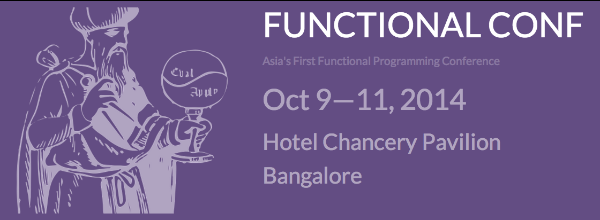
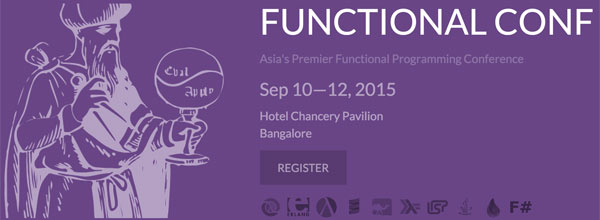
added call for proposal.

diff --git a/speaker.html b/speaker.html
@@ -1,0 +1,184 @@
+<!DOCTYPE html>
+<html lang="en">
+<head>
+  <meta charset="utf-8">
+  <meta http-equiv="X-UA-Compatible" content="IE=edge,chrome=1">
+  <title>Call For Proposals - Functional Conf 2015</title>
+
+  <meta name="description" content="Functional Conf - Asia's Premier Functional Programming Conference" />
+  <meta name="viewport" content="width=device-width, initial-scale=1.0" />
+
+  <meta property="og:title" content="Functional Conf - Asia's Premier Functional Programming Conference" />
+  <meta property="og:type" content="website" />
+  <meta property="og:image" content="http://functionalconf.com/static/images/social/fuconf_twitter_card.png" />
+  <meta property="og:site_name" content="Functional Conf, Bangalore, 2015" />
+  <meta property="og:description" content="Asia's Premier Functional Programming Conference" />
+
+  <!--Twitter Card-->
+  <meta name="twitter:card" content="summary_large_image">
+  <meta name="twitter:site" content="@fuconf">
+  <meta name="twitter:creator" content="@fuconf">
+  <meta name="twitter:title" content="Functional Conf, Bangalore, 2015">
+  <meta name="twitter:description" content="Asia's Premier Functional Programming Conference">
+  <meta name="twitter:image:src" content="http://functionalconf.com/static/images/social/fuconf_twitter_card.png">
+
+  <!--Favicons & Touch Icons-->
+  <link rel="shortcut icon" type="image/png" href="/static/images/favicon.png" />
+
+  <link rel="stylesheet" href="/static/css/style.css" media="all">
+  <link rel="stylesheet" href="/static/css/print.css" media="print">
+  <link href="/static/css/jquery.googleslides.css" rel="stylesheet" type="text/css" media="screen"/>
+  <link href='//fonts.googleapis.com/css?family=Lato:400,700' rel='stylesheet' type='text/css'>
+</head>
+<body class="
+page page-schedule
+" >
+
+  
+  <div class="header dark">
+    <div class="row row--topnav">
+      <div class="large-6 small-12 columns logo-wrapper">
+        <a href="/">
+          <div class="wizard"></div>
+          <h1 class="logo">
+            Functional Conf
+            <span class="date">
+              Sep 10&mdash;12 &lsquo;15 <br />
+              Bangalore</span>
+          </h1>
+        </a>
+      </div>
+      <div class="large-6 small-12 columns topnav-wrapper">
+                <nav class="topnav">
+          <ul class="topnav inline-list">
+            <li><a href="register.html">Register</a></li>
+            <li><a href="speaker.html">CFP</a></li>
+            <li><a href="schedule.html">Schedule</a></li>
+            <li><a href="/#sponsors">Sponsors</a></li>
+            <li><a href="venue.html">Venue</a></li>
+            <li><a href="about.html">About</a></li>
+            <li><a href="/2014">2014</a></li>
+          </ul>
+        </nav>
+      </div>
+    </div>
+  </div>
+
+
+  <div class="content">
+    
+    <div class="schedule-wrapper">
+    <div class="row">
+          <div class="columns large-9">
+            <h1>Call For Proposals</h1>
+
+              <div>
+                  <a name="review-process"></a>
+                  <p>To present at Functional Conf 2015, please submit your proposal before May 15th via our <a href="http://confengine.com/functional-conf-2015" target="_blank">public proposal submission system</a>.</p>
+              </div>
+
+              <div>
+                  <h3>REVIEW PROCESS</h3>
+                  <p>All proposals will be public. Registered user of the submission system will be able to comment on your proposal. You are required to reply to those comments to provide clarifications, explain revisions and respond to questions. The program team will look at how well you've responded to comments and updated your proposal to incorporate public suggestions. Ultimately the decision to accept a session resides with the program team.</p>
+                  <p>Your proposal stands the best chance to be selected, if it's unique, fully flushed, ready-to-go. Please ensure you've read:</p>
+                  <ol class="list">
+                      <li><a href="#selection-criteria">Selection Criteria</a> </li>
+                      <li><a href="http://confengine.com/review-process#good-proposal-attributes" target="_blank">Good Proposal Attributes</a> </li>
+                      <li><a href="http://confengine.com/review-process#best-chance" target="_blank">Best Selection Chance</a> </li>
+                      <li><a href="http://confengine.com/review-process#tips-for-proposal" target="_blank">Tips for Proposals</a> </li>
+                  </ol>
+
+                  <p>To encourage early submissions and iterative improvement of proposals, we'll start accepting proposals as soon as we find them a good fit. As time passes by, the competition gets tougher. So don't wait till the last date to submit your proposal.</p>
+              </div>
+
+              <div>
+                  <a name="selection-criteria"></a>
+                  <h3>We Value</h3>
+                  <p>In terms of the <em><span style="text-decoration: underline;">overarching themes or values</span></em> in the proposals, we look at the following criteria during selection:</p>
+
+                  <ol class="list">
+                      <li><b>Diversity</b>  - As a conference, we want to be more <span style="text-decoration: underline;">inclusive</span> (different approaches, different programming languages, gender, countries, back-ground etc.)</li>
+                      <li><b>Balance</b> - We want to strike a good balance between <span style="text-decoration: underline;">different types of presentations</span> (expert talks, experience reports, tutorials, workshops, etc.) and <span style="text-decoration: underline;">different types of experience</span> the speakers bring to the conference.</li>
+                      <li><b>Equality</b> - We encourage <span style="text-decoration: underline;">more students and women speakers</span>. We won't select any proposal just because it came from a student or a women speaker. But given we have to pick 1 out of 2 equal proposal, we'll pick the one, which was proposed by a student or a women speaker.</li>
+                      <li><b>Practicality</b> - People come to a conference to <span style="text-decoration: underline;">learn, network, have an experience and leave motivated</span>. Proposals which directly help this are always preferred. While a little bit of theory is good, but if the proposal lacks practical application, it does not really help the participants. Also people learn more by doing rather than listening. If proposals has an element of "<span style="text-decoration: underline;">learn by doing</span>" it wins over other proposals. Take people on a learning journey.</li>
+                      <li><b>Opportunity</b> - While we want to ensure the conference has at least 70% rock solid speakers, we also want to give an opportunity to <span style="text-decoration: underline;">new speakers</span>, who have real potential</li>
+                      <li><b>Originality</b> - Original ideas wins hands-on from copied one. People always prefer listing to an <span style="text-decoration: underline;">idea from its creator</span> rather than second or third person. However, you might have taken an idea and tweaked it in your context. You would have gained an insight by doing so. And certainly all of us want to hear your <span style="text-decoration: underline;">first-hand experience</span>, even though you were not the creator of the original idea. We are looking for <span style="text-decoration: underline;">Thought-Leadership</span>.</li>
+                      <li><b>Radical Ideas</b> - We really respect people, who want to <span style="text-decoration: underline;">push the boundaries and challenge the status quo</span>. We have a soft-corner for <span style="text-decoration: underline;">unconventional ideas</span> and will try our best to support them and bring awareness to their work.</li>
+                      <li><b>Demand</b> - <span style="text-decoration: underline;">Votes</span> on a proposal and <span style="text-decoration: underline;">buzz on social media</span> gives us an idea of how many people are really interested in the topic. (We fully understand votes can be gamed, but we've a system that can eliminate some bogus votes and use different types of patterns to give us a decent sense of the real demand.)</li>
+                  </ol>
+              </div>
+              
+              <div>
+                  <h3><a name="compensation"></a>Compensation for speakers</h3>
+                  <p>Speakers will be compensated as follows:</p>
+                  <table class="table table-striped table-bordered">
+                      <tbody>
+                      <tr>
+                          <td>60 or 90 minutes session</td>
+                          <td>1 Free Conference Registration + 2 Hotel Night</td>
+                      </tr>
+                      <tr>
+                          <td>45 minutes session</td>
+                          <td><span>1 Free Conference Registration + 1 Hotel Night</span></td>
+                      </tr>
+                      <tr>
+                          <td>20 <span>minutes</span> session</td>
+                          <td>1 Free Conference Registration</td>
+                      </tr>
+                      <tr>
+                          <td>&lt; 20 <span>minutes</span></td>
+                          <td>No Compensation</td>
+                      </tr>
+                      </tbody>
+                  </table>
+                  <p>Speakers can contact <a href="mailto:naresh@functionalconf.com">naresh@functionalconf.com</a> for discount code to register for the conference.</p>
+                  <p>Compensation listed above is only for primary speakers. Co-presenters can avail a 25% discount on their registrations. Hotel nights are capped at 3 nights for speakers with multiple accepted sessions. They cannot be accumulated beyond the cap or transferred to another person. Free registrations cannot be accumulated or transferred.</p>
+              </div>
+              <div style="text-align: center">
+                  <a class="button button--register" href="http://confengine.com/functional-conf-2015">Propose a Session!</a>
+              </div>
+
+
+
+          </div>
+       </div>
+    </div>
+
+
+        <div class="footer dark">
+      <div class="row">
+          <div class="columns large-12">
+            <div class="social-wrapper">
+              <ul class="small-block-grid-5 social-links">
+                <li><a class="icon-twitter" href="https://twitter.com/FuConf"></a></li>
+                <li><a class="icon-fb" href="https://www.facebook.com/pages/Functional-Conf/208786912649602"></a></li>
+                <li><a class="icon-linkedin" href="http://www.linkedin.com/groups/Functional-Conf-6626650/about"></a></li>
+                <li><a class="icon-plus" href="https://plus.google.com/u/0/communities/108445265387298883578"></a></li>
+                <li><a class="icon-mail" href="mailto:team@functionalconf.com?subject=FunctionalConf"></a></li>
+              </ul>
+            </div>
+          </div>
+      </div>
+      <div class="row">
+        <div class="columns large-12">
+          <ul class="footer-links">
+            <li>&copy; 2015, <a href="http://functionalconf.com">Functional Conf</a></li>
+            <li>Made with &hearts; by <a href="https://twitter.com/ideamonk" target="_blank">@ideamonk</a> &amp; <a href="http://twitter.com/ghoseb" target="_blank">@ghoseb</a></li>
+          </ul>
+        </div>
+      </div>
+    </div>
+  </div>
+
+  <script>
+ (function(i,s,o,g,r,a,m){i['GoogleAnalyticsObject']=r;i[r]=i[r]||function(){
+ (i[r].q=i[r].q||[]).push(arguments)},i[r].l=1*new Date();a=s.createElement(o),
+ m=s.getElementsByTagName(o)[0];a.async=1;a.src=g;m.parentNode.insertBefore(a,m)
+ })(window,document,'script','//www.google-analytics.com/analytics.js','ga');
+
+ ga('create', 'UA-54301656-1', 'auto');
+ ga('send', 'pageview');
+</script>
+
+</body>
+</html>

diff --git a/templates/speaker.html b/templates/speaker.html
@@ -1,0 +1,86 @@
+{% extends "_base_page.html" %}
+
+{% block title %}Call For Proposals - Functional Conf 2015{% endblock %}
+
+{% block body_classes %}
+page page-schedule
+{% endblock %}
+
+{% block content %}
+    <div class="schedule-wrapper">
+    <div class="row">
+          <div class="columns large-9">
+            <h1>Call For Proposals</h1>
+
+              <div>
+                  <a name="review-process"></a>
+                  <p>To present at Functional Conf 2015, please submit your proposal before May 15th via our <a href="http://confengine.com/functional-conf-2015" target="_blank">public proposal submission system</a>.</p>
+              </div>
+
+              <div>
+                  <h3>REVIEW PROCESS</h3>
+                  <p>All proposals will be public. Registered user of the submission system will be able to comment on your proposal. You are required to reply to those comments to provide clarifications, explain revisions and respond to questions. The program team will look at how well you've responded to comments and updated your proposal to incorporate public suggestions. Ultimately the decision to accept a session resides with the program team.</p>
+                  <p>Your proposal stands the best chance to be selected, if it's unique, fully flushed, ready-to-go. Please ensure you've read:</p>
+                  <ol class="list">
+                      <li><a href="#selection-criteria">Selection Criteria</a> </li>
+                      <li><a href="http://confengine.com/review-process#good-proposal-attributes" target="_blank">Good Proposal Attributes</a> </li>
+                      <li><a href="http://confengine.com/review-process#best-chance" target="_blank">Best Selection Chance</a> </li>
+                      <li><a href="http://confengine.com/review-process#tips-for-proposal" target="_blank">Tips for Proposals</a> </li>
+                  </ol>
+
+                  <p>To encourage early submissions and iterative improvement of proposals, we'll start accepting proposals as soon as we find them a good fit. As time passes by, the competition gets tougher. So don't wait till the last date to submit your proposal.</p>
+              </div>
+
+              <div>
+                  <a name="selection-criteria"></a>
+                  <h3>We Value</h3>
+                  <p>In terms of the <em><span style="text-decoration: underline;">overarching themes or values</span></em> in the proposals, we look at the following criteria during selection:</p>
+
+                  <ol class="list">
+                      <li><b>Diversity</b>  - As a conference, we want to be more <span style="text-decoration: underline;">inclusive</span> (different approaches, different programming languages, gender, countries, back-ground etc.)</li>
+                      <li><b>Balance</b> - We want to strike a good balance between <span style="text-decoration: underline;">different types of presentations</span> (expert talks, experience reports, tutorials, workshops, etc.) and <span style="text-decoration: underline;">different types of experience</span> the speakers bring to the conference.</li>
+                      <li><b>Equality</b> - We encourage <span style="text-decoration: underline;">more students and women speakers</span>. We won't select any proposal just because it came from a student or a women speaker. But given we have to pick 1 out of 2 equal proposal, we'll pick the one, which was proposed by a student or a women speaker.</li>
+                      <li><b>Practicality</b> - People come to a conference to <span style="text-decoration: underline;">learn, network, have an experience and leave motivated</span>. Proposals which directly help this are always preferred. While a little bit of theory is good, but if the proposal lacks practical application, it does not really help the participants. Also people learn more by doing rather than listening. If proposals has an element of "<span style="text-decoration: underline;">learn by doing</span>" it wins over other proposals. Take people on a learning journey.</li>
+                      <li><b>Opportunity</b> - While we want to ensure the conference has at least 70% rock solid speakers, we also want to give an opportunity to <span style="text-decoration: underline;">new speakers</span>, who have real potential</li>
+                      <li><b>Originality</b> - Original ideas wins hands-on from copied one. People always prefer listing to an <span style="text-decoration: underline;">idea from its creator</span> rather than second or third person. However, you might have taken an idea and tweaked it in your context. You would have gained an insight by doing so. And certainly all of us want to hear your <span style="text-decoration: underline;">first-hand experience</span>, even though you were not the creator of the original idea. We are looking for <span style="text-decoration: underline;">Thought-Leadership</span>.</li>
+                      <li><b>Radical Ideas</b> - We really respect people, who want to <span style="text-decoration: underline;">push the boundaries and challenge the status quo</span>. We have a soft-corner for <span style="text-decoration: underline;">unconventional ideas</span> and will try our best to support them and bring awareness to their work.</li>
+                      <li><b>Demand</b> - <span style="text-decoration: underline;">Votes</span> on a proposal and <span style="text-decoration: underline;">buzz on social media</span> gives us an idea of how many people are really interested in the topic. (We fully understand votes can be gamed, but we've a system that can eliminate some bogus votes and use different types of patterns to give us a decent sense of the real demand.)</li>
+                  </ol>
+              </div>
+              
+              <div>
+                  <h3><a name="compensation"></a>Compensation for speakers</h3>
+                  <p>Speakers will be compensated as follows:</p>
+                  <table class="table table-striped table-bordered">
+                      <tbody>
+                      <tr>
+                          <td>60 or 90 minutes session</td>
+                          <td>1 Free Conference Registration + 2 Hotel Night</td>
+                      </tr>
+                      <tr>
+                          <td>45 minutes session</td>
+                          <td><span>1 Free Conference Registration + 1 Hotel Night</span></td>
+                      </tr>
+                      <tr>
+                          <td>20 <span>minutes</span> session</td>
+                          <td>1 Free Conference Registration</td>
+                      </tr>
+                      <tr>
+                          <td>&lt; 20 <span>minutes</span></td>
+                          <td>No Compensation</td>
+                      </tr>
+                      </tbody>
+                  </table>
+                  <p>Speakers can contact <a href="mailto:naresh@functionalconf.com">naresh@functionalconf.com</a> for discount code to register for the conference.</p>
+                  <p>Compensation listed above is only for primary speakers. Co-presenters can avail a 25% discount on their registrations. Hotel nights are capped at 3 nights for speakers with multiple accepted sessions. They cannot be accumulated beyond the cap or transferred to another person. Free registrations cannot be accumulated or transferred.</p>
+              </div>
+              <div style="text-align: center">
+                  <a class="button button--register" href="http://confengine.com/functional-conf-2015">Propose a Session!</a>
+              </div>
+
+
+
+          </div>
+       </div>
+    </div>
+{% endblock %}

diff --git a/index.html b/index.html
@@ -41,11 +41,12 @@ page-index
               <nav class="topnav">
           <ul class="topnav inline-list">
             <li><a href="register.html">Register</a></li>
+            <li><a href="speaker.html">CFP</a></li>
             <li><a href="schedule.html">Schedule</a></li>
             <li><a href="/#sponsors">Sponsors</a></li>
             <li><a href="venue.html">Venue</a></li>
             <li><a href="about.html">About</a></li>
-            <li><a href="/2014">2014 Conf</a></li>
+            <li><a href="/2014">2014</a></li>
           </ul>
         </nav>
     </div>
@@ -62,6 +63,7 @@ page-index
         Bangalore
       </a>
       <a class="button button--register" href="register.html">Register</a>
+        <a class="button button--register" href="speaker.html" style="margin-left: 5px; background: rgba(0, 0, 0, 0.35)">Call for Proposals</a>
       <ul class="langs inline-list">
         <li class="lang-clojure"></li>
         <li class="lang-erlang"></li>

diff --git a/venue.html b/venue.html
@@ -84,11 +84,12 @@ onload="javascript: LoadGmaps();"
                 <nav class="topnav">
           <ul class="topnav inline-list">
             <li><a href="register.html">Register</a></li>
+            <li><a href="speaker.html">CFP</a></li>
             <li><a href="schedule.html">Schedule</a></li>
             <li><a href="/#sponsors">Sponsors</a></li>
             <li><a href="venue.html">Venue</a></li>
             <li><a href="about.html">About</a></li>
-            <li><a href="/2014">2014 Conf</a></li>
+            <li><a href="/2014">2014</a></li>
           </ul>
         </nav>
       </div>

diff --git a/register.html b/register.html
@@ -52,11 +52,12 @@ page page-register
                 <nav class="topnav">
           <ul class="topnav inline-list">
             <li><a href="register.html">Register</a></li>
+            <li><a href="speaker.html">CFP</a></li>
             <li><a href="schedule.html">Schedule</a></li>
             <li><a href="/#sponsors">Sponsors</a></li>
             <li><a href="venue.html">Venue</a></li>
             <li><a href="about.html">About</a></li>
-            <li><a href="/2014">2014 Conf</a></li>
+            <li><a href="/2014">2014</a></li>
           </ul>
         </nav>
       </div>

diff --git a/schedule.html b/schedule.html
@@ -52,11 +52,12 @@ page page-schedule
                 <nav class="topnav">
           <ul class="topnav inline-list">
             <li><a href="register.html">Register</a></li>
+            <li><a href="speaker.html">CFP</a></li>
             <li><a href="schedule.html">Schedule</a></li>
             <li><a href="/#sponsors">Sponsors</a></li>
             <li><a href="venue.html">Venue</a></li>
             <li><a href="about.html">About</a></li>
-            <li><a href="/2014">2014 Conf</a></li>
+            <li><a href="/2014">2014</a></li>
           </ul>
         </nav>
       </div>

diff --git a/sponsor.html b/sponsor.html
@@ -52,11 +52,12 @@ page page-sponsor
                 <nav class="topnav">
           <ul class="topnav inline-list">
             <li><a href="register.html">Register</a></li>
+            <li><a href="speaker.html">CFP</a></li>
             <li><a href="schedule.html">Schedule</a></li>
             <li><a href="/#sponsors">Sponsors</a></li>
             <li><a href="venue.html">Venue</a></li>
             <li><a href="about.html">About</a></li>
-            <li><a href="/2014">2014 Conf</a></li>
+            <li><a href="/2014">2014</a></li>
           </ul>
         </nav>
       </div>

diff --git a/about.html b/about.html
@@ -52,11 +52,12 @@ page page-about
                 <nav class="topnav">
           <ul class="topnav inline-list">
             <li><a href="register.html">Register</a></li>
+            <li><a href="speaker.html">CFP</a></li>
             <li><a href="schedule.html">Schedule</a></li>
             <li><a href="/#sponsors">Sponsors</a></li>
             <li><a href="venue.html">Venue</a></li>
             <li><a href="about.html">About</a></li>
-            <li><a href="/2014">2014 Conf</a></li>
+            <li><a href="/2014">2014</a></li>
           </ul>
         </nav>
       </div>

diff --git a/templates/_topnav.html b/templates/_topnav.html
@@ -1,10 +1,11 @@
         <nav class="topnav">
           <ul class="topnav inline-list">
             <li><a href="register.html">Register</a></li>
+            <li><a href="speaker.html">CFP</a></li>
             <li><a href="schedule.html">Schedule</a></li>
             <li><a href="/#sponsors">Sponsors</a></li>
             <li><a href="venue.html">Venue</a></li>
             <li><a href="about.html">About</a></li>
-            <li><a href="/2014">2014 Conf</a></li>
+            <li><a href="/2014">2014</a></li>
           </ul>
         </nav>

diff --git a/templates/index.html b/templates/index.html
@@ -25,6 +25,7 @@ page-index
         Bangalore
       </a>
       <a class="button button--register" href="register.html">Register</a>
+        <a class="button button--register" href="speaker.html" style="margin-left: 5px; background: rgba(0, 0, 0, 0.35)">Call for Proposals</a>
       <ul class="langs inline-list">
         <li class="lang-clojure"></li>
         <li class="lang-erlang"></li>

diff --git a/compile.py b/compile.py
@@ -5,7 +5,7 @@ from jinja2 import Environment, FileSystemLoader
 PUBLISH_ROOT = '.'
 JINJA_ENV = Environment(loader=FileSystemLoader('templates'))
 
-templates = ["index.html", "about.html", "register.html", "schedule.html", "sponsor.html", "venue.html", "2014/index.html", "2014/schedule.html", "2014/sponsor.html"]
+templates = ["index.html", "about.html", "register.html", "schedule.html", "speaker.html", "sponsor.html", "venue.html", "2014/index.html", "2014/schedule.html", "2014/sponsor.html"]
 
 for template_file in templates:
     template = JINJA_ENV.get_template("%s" % template_file)
